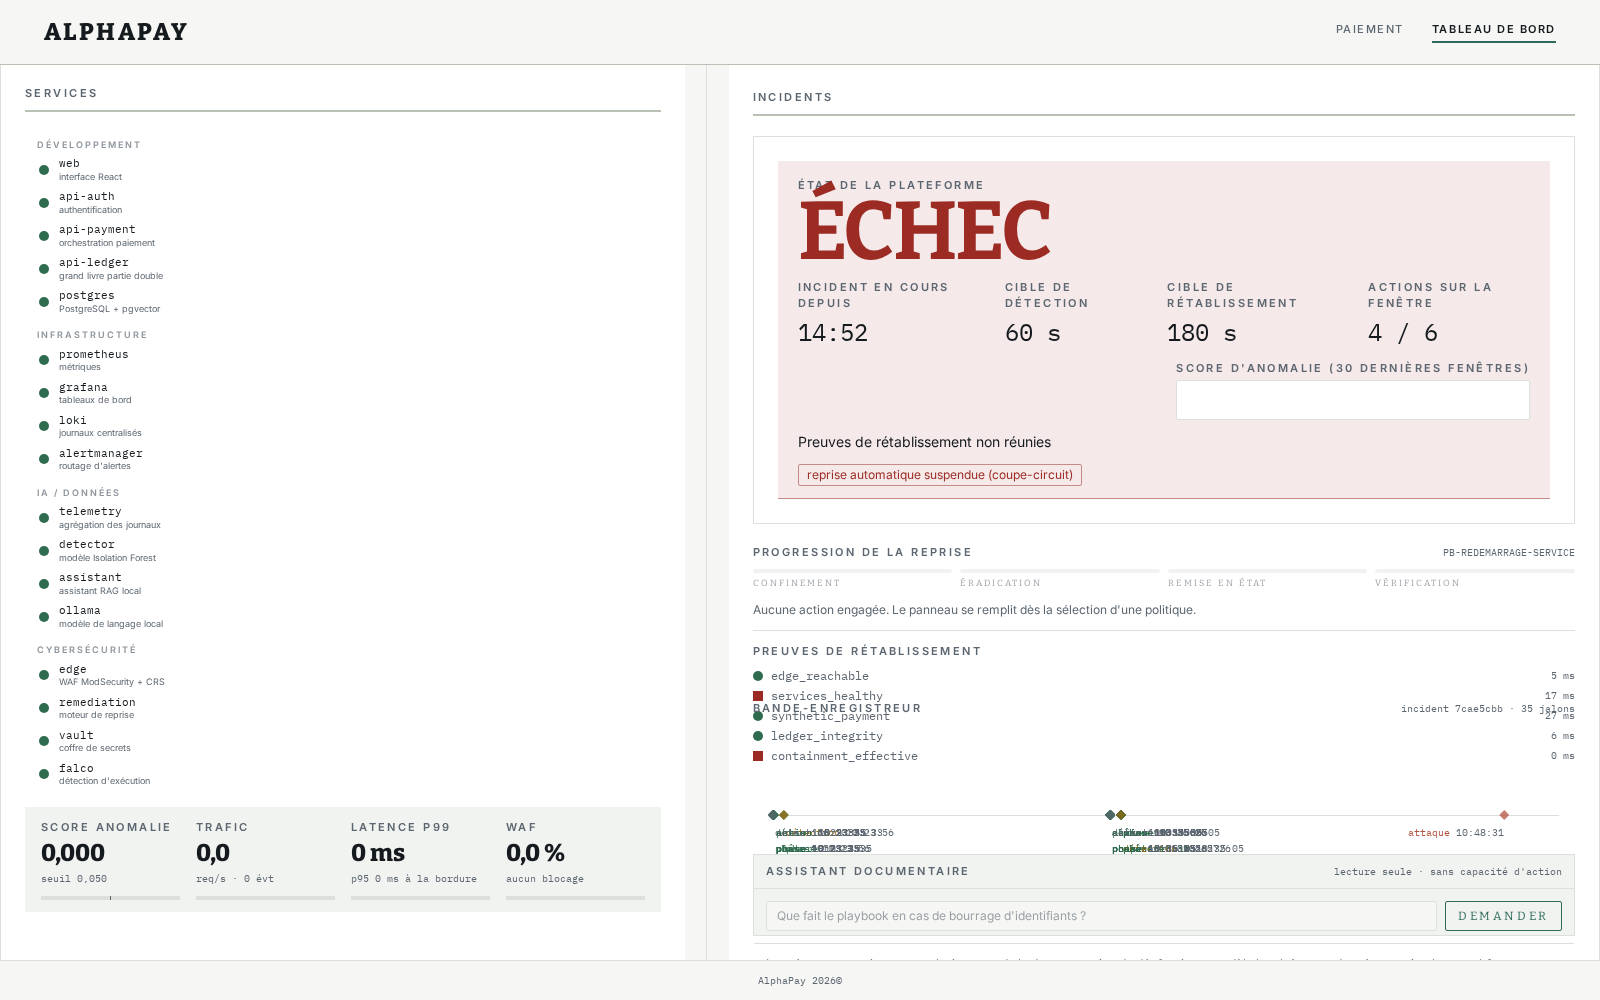
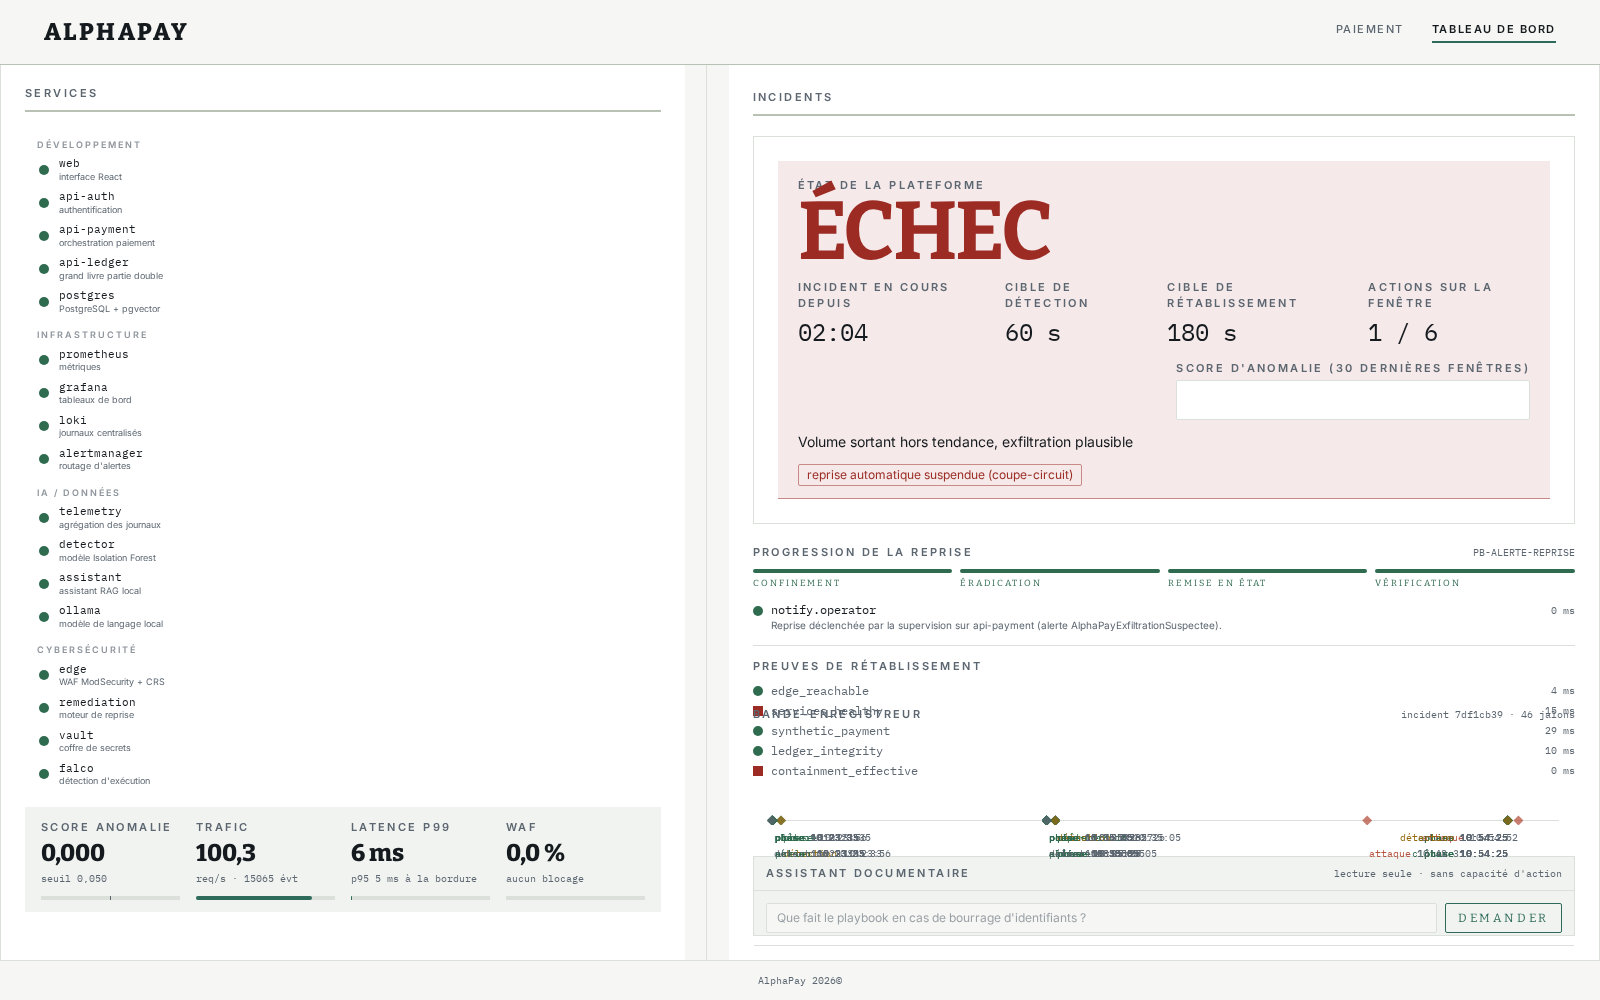
Recalibrage : le modele vient du generateur varie (capacite de distinguer), le seuil des fenetres reelles. Artefacts conserves dans le depot

diff --git a/ml/recalibrer.py b/ml/recalibrer.py
@@ -38,10 +38,20 @@ def ajuster_sur_mesures(
 ) -> dict[str, Any]:
     """Réajuste le modèle sur des vecteurs réellement observés.
 
-    Le cœur d'ajustement n'est pas réécrit : on réutilise `ml.train.entrainer`
-    en substituant sa source de données. Cela garantit que le modèle recalibré
-    est produit par exactement le même code que le modèle embarqué : même
-    normalisation, même seuil, mêmes explications.
+    Deux rôles, deux sources, et c'est tout l'enjeu :
+
+    * le **modèle** est entraîné sur le générateur de trafic, qui décrit une
+      plateforme en fonctionnement : débit variable, plusieurs adresses,
+      latences étendues. C'est de cette variété que vient la capacité de
+      distinguer ;
+    * le **seuil** est réglé sur les fenêtres réellement observées, ce qui
+      garantit que le repos de *ce* poste reste en dessous.
+
+    Entraîner le modèle directement sur les fenêtres réelles — ce que faisait la
+    version précédente — revient à apprendre une distribution de variance nulle :
+    un poste au repos produit des fenêtres quasi identiques, l'Isolation Forest
+    renvoie alors le même score pour tout, et le détecteur ne distingue plus une
+    attaque d'un système sain. Il ne détecte plus rien, sans jamais échouer.
     """
     import numpy as np
 
@@ -58,17 +68,30 @@ def ajuster_sur_mesures(
         dtype=float,
     )
 
-    def _source_substituee(_duree_secondes: float = 0.0):  # noqa: ANN202
-        moyennes = {nom: float(brut[:, i].mean()) for i, nom in enumerate(FEATURE_NAMES)}
-        ecarts = {nom: float(brut[:, i].std() or 1.0) for i, nom in enumerate(FEATURE_NAMES)}
-        return brut.tolist(), moyennes, ecarts
+    # 1. Le modele vient du generateur varie, pas des fenetres reelles.
+    #
+    # La duree simulee doit etre suffisante : demander zero seconde produit un
+    # corpus vide, et l'entrainement echoue sur une moyenne sans donnees. On
+    # prend de quoi couvrir un large eventail de charge, avec un plancher lie au
+    # nombre de fenetres reelles pour rester proportionne.
+    duree_simulee = max(4500.0, 30.0 * len(vecteurs_mesures))
+    artefact = soi.entrainer(
+        duree_simulee, n_estimateurs=n_estimateurs, graine=graine
+    )
 
-    origine = soi._vecteurs_nominaux
-    soi._vecteurs_nominaux = _source_substituee
-    try:
-        artefact = soi.entrainer(0.0, n_estimateurs=n_estimateurs, graine=graine)
-    finally:
-        soi._vecteurs_nominaux = origine
+    # 2. Le seuil vient des fenetres reelles.
+    modele = artefact["modele"]
+    normaliseur = artefact["scaler"]
+    scores = -modele.decision_function(normaliseur.transform(brut))
+
+    seuil = float(np.max(scores)) + max(0.05, float(np.std(scores)) * 0.5)
+    artefact["seuil"] = seuil
+    artefact["score_moyen"] = float(np.mean(scores))
+    artefact["score_ecart_type"] = float(np.std(scores))
+    artefact["score_min"] = float(np.min(scores))
+    artefact["score_max"] = float(np.max(scores))
+    artefact["taux_detection_nominal_pct"] = float(np.mean(scores > seuil)) * 100.0
+    artefact["n_fenetres_reelles"] = len(vecteurs_mesures)
 
     artefact["version"] = f"isolation-forest-{source_libelle}"
     artefact["source_calibrage"] = source_libelle
